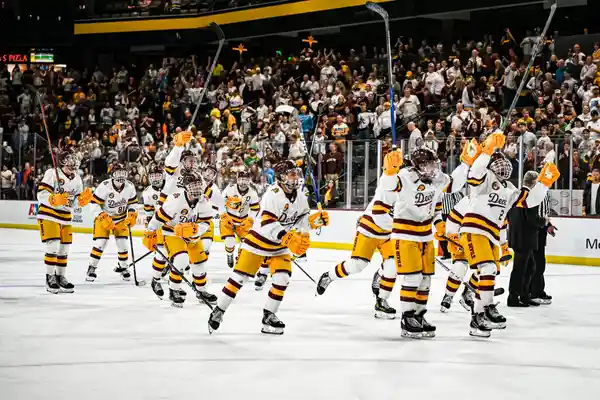
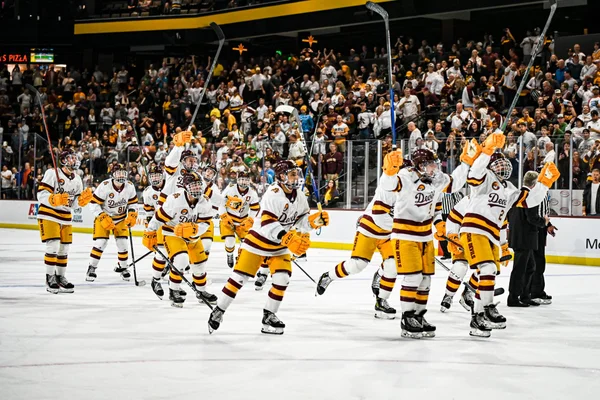
fix: restore WebP quality 85 for hero images (was incorrectly set to 20/30)

diff --git a/scripts/convert-images-round2.js b/scripts/convert-images-round2.js
@@ -7,14 +7,14 @@ const jobs = [
   {
     input:  path.join(root, 'src/assets/ASU-Hockey-at-Mullett-Arena.jpg'),
     output: path.join(root, 'public/assets/hero-arena.webp'),
-    transform: s => s.resize(1400, 933).webp({ quality: 20 }),
-    label: 'hero-arena.webp (1400×933 q20)',
+    transform: s => s.resize(1400, 933).webp({ quality: 85 }),
+    label: 'hero-arena.webp (1400×933 q85)',
   },
   {
     input:  path.join(root, 'src/assets/ASU-Hockey-at-Mullett-Arena.jpg'),
     output: path.join(root, 'public/assets/hero-arena-mobile.webp'),
-    transform: s => s.resize(600, 400).webp({ quality: 30 }),
-    label: 'hero-arena-mobile.webp (600×400 q30)',
+    transform: s => s.resize(600, 400).webp({ quality: 85 }),
+    label: 'hero-arena-mobile.webp (600×400 q85)',
   },
   {
     input:  path.join(root, 'public/assets/asu-hockey-logo.png'),
